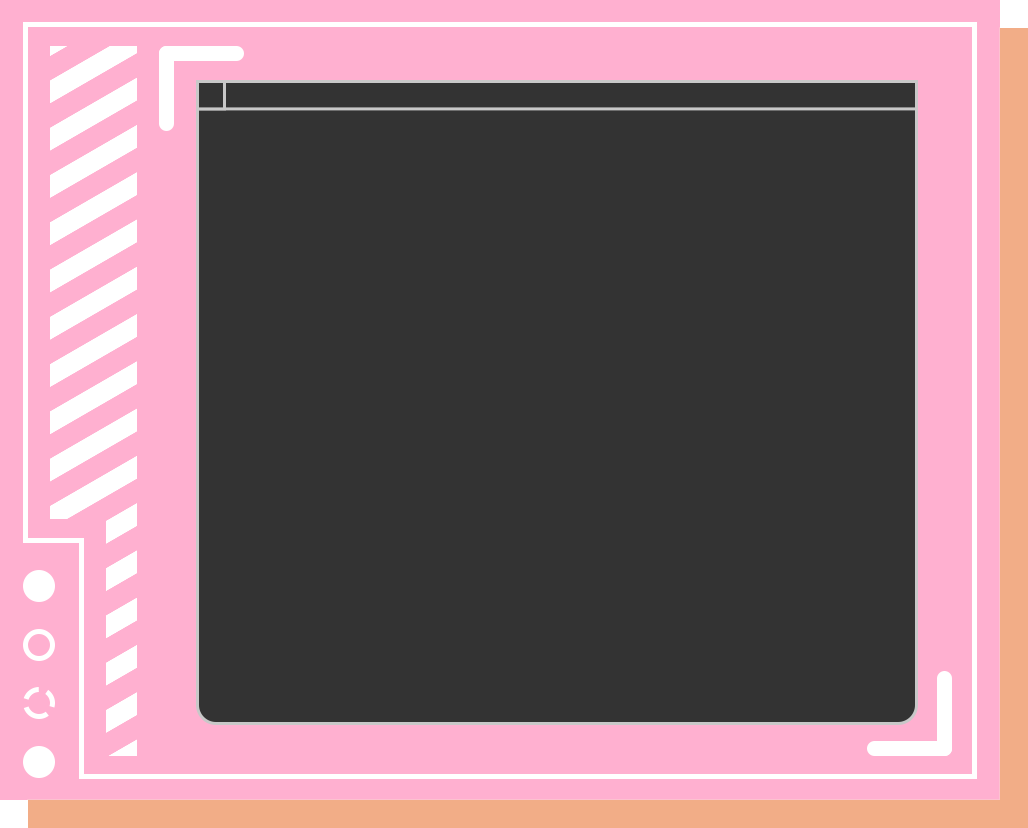
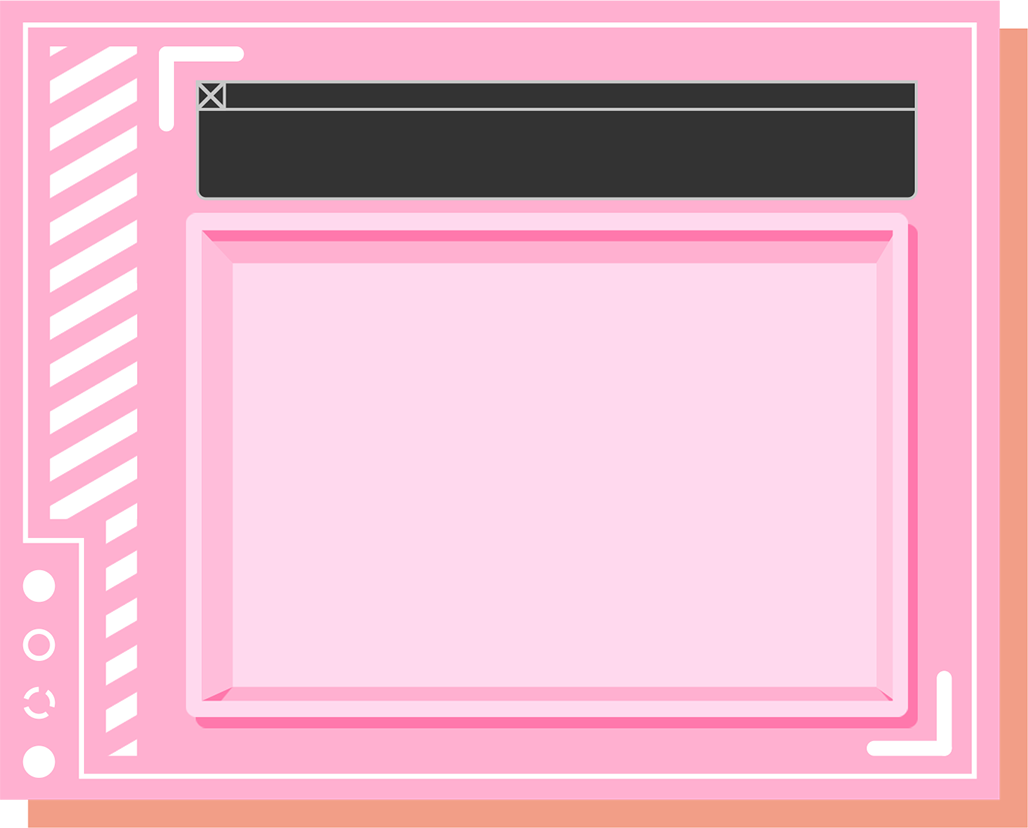
feature: 编写人员信息卡片 调整背景移动框的位置

diff --git a/src/views/Lottery.vue b/src/views/Lottery.vue
@@ -8,35 +8,64 @@
       </div>
     </lottery-background>
 
+    <!-- 全局居中的主题框 -->
     <div class="lottery-main">
+      <!-- 中心框上方的参与指令 -->
       <span class="lottery-main-command-display"
         ><b>参与指令</b>: {{ config.attendKeyword }}</span
       >
+
+      <!-- 中心框和其内部 -->
       <lottery-box class="lottery-main-lottery">
-        <!-- 登录成功后的页面 -->
-        <div v-if="isLogin">
-          <p>欢迎使用桃抽奖</p>
-        </div>
+        <!-- 顶部的消息框 黑色部分 -->
+        <template #message>
+          <div class="lottery-main-message">
+            <p>sss</p>
+            <p>sss</p>
+            <p>sss</p>
+          </div>
+        </template>
 
-        <!-- 登录页面 -->
-        <div v-else>
-          <el-input
-            type="primary"
-            v-model="login.username"
-            placeholder="用户名"
-          ></el-input>
-          <el-input
-            type="primary"
-            v-model="login.password"
-            placeholder="密码"
-          ></el-input>
+        <!-- 底部的粉色框 显示人员信息 -->
+        <template #default>
+          <!-- 登录成功后的页面 -->
+          <div v-if="isLogin">
+            <ul class="lottery-main-users">
+              <user-item></user-item>
+              <user-item></user-item>
+              <user-item></user-item>
+              <user-item></user-item>
+              <user-item></user-item>
+              <user-item></user-item>
+              <user-item></user-item>
+              <user-item></user-item>
+            </ul>
+          </div>
 
-          <el-button type="primary" @click="handleLogin" :loading="loginLoading"
-            >登录</el-button
-          >
-        </div>
+          <!-- 登录页面 -->
+          <div v-else>
+            <el-input
+              type="primary"
+              v-model="login.username"
+              placeholder="用户名"
+            ></el-input>
+            <el-input
+              type="primary"
+              v-model="login.password"
+              placeholder="密码"
+            ></el-input>
+
+            <el-button
+              type="primary"
+              @click="handleLogin"
+              :loading="loginLoading"
+              >登录</el-button
+            >
+          </div>
+        </template>
       </lottery-box>
 
+      <!-- 右侧的两个人框 -->
       <task-box class="lottery-main-done-list"></task-box>
       <task-box class="lottery-main-undone-list"></task-box>
 
@@ -54,6 +83,7 @@ import TaskBox from '@/components/TaskBox'
 import ConfigBox from '@/components/ConfigBox'
 import LotteryBox from '@/components/LotteryBox'
 import ConfigControl from '@/components/ConfigControl'
+import UserItem from '@/components/UserItem'
 import * as api from '@/api'
 import { mapMutations } from 'vuex'
 
@@ -64,11 +94,12 @@ export default {
     TaskBox,
     ConfigBox,
     LotteryBox,
-    ConfigControl
+    ConfigControl,
+    UserItem
   },
   data() {
     return {
-      isLogin: false,
+      isLogin: true,
       loginLoading: false,
       config: {
         lotteryPattern: 1,
@@ -158,14 +189,29 @@ export default {
   position: absolute;
   z-index: 103;
   left: calc(50vw - 781px);
-  top: calc(50vh - 305px);
+  top: calc(50vh - 485px);
 }
 .lottery-main-command-display {
   position: absolute;
   z-index: 101;
-  left: calc((100vw - 1028px) / 2);
+  left: calc((100vw - 1028px) / 2 + 80px);
   top: calc((100vh - 828px) / 2 - 50px);
-  font-family: 'zhscnmt';
+  font-family: 'zhscnmt', 'Helvetica Neue', Helvetica, 'PingFang SC',
+    'Hiragino Sans GB', 'Microsoft YaHei', '微软雅黑', Arial, sans-serif;
   font-size: 40px;
+}
+
+.lottery-main-message {
+  font-family: 'Helvetica Neue', Helvetica, 'PingFang SC', 'Hiragino Sans GB',
+    'Microsoft YaHei', '微软雅黑', Arial, sans-serif;
+  padding: 8px;
+}
+
+.lottery-main-users {
+  height: 400px;
+  overflow-y: auto;
+  display: grid;
+  grid-template-columns: 1fr 1fr;
+  row-gap: 15px;
 }
 </style>

diff --git a/src/components/UserItem.vue b/src/components/UserItem.vue
@@ -1,0 +1,136 @@
+<template>
+  <li class="user-item" :class="{ small: isSmall }">
+    <div class="user-item-avatar-box" :class="{ small: isSmall }">
+      <img :src="avatar" alt="头像" class="user-item-avatar" v-if="!isSmall" />
+      <div class="user-item-status"></div>
+    </div>
+
+    <div class="user-item-main-box">
+      <div class="user-item-name-box">
+        <span class="user-item-name">{{ name }}</span>
+        <div class="user-item-name-line" v-if="!isSmall"></div>
+      </div>
+
+      <div class="user-item-tag-box" v-if="!isSmall">
+        <span class="user-item-tag">&gt; {{ tag }}</span>
+      </div>
+    </div>
+  </li>
+</template>
+
+<script>
+import defaultAvatar from '@/assets/default-avatar.png'
+
+export default {
+  name: 'UserItem',
+  props: {
+    avatar: {
+      type: String,
+      default: defaultAvatar
+    },
+    name: {
+      type: String,
+      default: '(这个人没有名字)'
+    },
+    tag: {
+      type: String,
+      default: '广告位招租'
+    },
+    size: {
+      type: String,
+      validator(val) {
+        return val === 'normal' || val === 'small'
+      },
+      default: 'normal'
+    }
+  },
+  computed: {
+    isSmall() {
+      return this.size === 'small'
+    }
+  }
+}
+</script>
+
+<style>
+.user-item {
+  box-sizing: border-box;
+  display: flex;
+  align-items: center;
+  border: 1px dashed #000;
+  width: 300px;
+  margin-bottom: 10px;
+  padding: 8px 12px;
+  box-shadow: 10px 10px 0 #ff9fc6;
+  background-color: #fff;
+}
+.user-item.small {
+  padding: 0;
+}
+.user-item-avatar-box {
+  position: relative;
+  height: 60px;
+  width: 60px;
+}
+.user-item-avatar-box.small {
+  border-right: 1px dashed #000;
+  padding: 5px;
+  height: 16px;
+  width: 16px;
+}
+.user-item-avatar-box.small .user-item-status {
+  position: relative;
+}
+.user-item-avatar {
+  display: block;
+  box-sizing: border-box;
+  height: 60px;
+  width: 60px;
+  border-radius: 50%;
+}
+.user-item-status {
+  position: absolute;
+  right: 0;
+  bottom: 0;
+  width: 16px;
+  height: 16px;
+  border-radius: 50%;
+  background-color: #62ff3d;
+}
+
+.user-item-main-box {
+  margin-left: 15px;
+  display: flex;
+  flex-direction: column;
+}
+.user-item-name-box {
+  position: relative;
+  padding-bottom: 3px;
+  color: #000;
+}
+.user-item-name-line {
+  position: absolute;
+  left: 0;
+  bottom: 0;
+  width: 120px;
+  height: 1px;
+  background-color: #000;
+}
+.user-item-name {
+  font-weight: bold;
+}
+.user-item-tag-box {
+  box-sizing: border-box;
+  display: flex;
+  flex-flow: row nowrap;
+  align-items: center;
+  margin-top: 6px;
+  width: 200px;
+  height: 31px;
+  padding: 10px 12px;
+  border-radius: 12px;
+  background-image: url('~@/assets/name-tag.png');
+  background-size: 100% 100%;
+  background-repeat: no-repeat;
+}
+</style>

diff --git a/src/components/LotteryBox.vue b/src/components/LotteryBox.vue
@@ -1,6 +1,12 @@
 <template>
   <div class="lottery-box">
-    <slot></slot>
+    <div class="lottery-box-message">
+      <slot name="message"></slot>
+    </div>
+
+    <div class="lottery-box-main">
+      <slot></slot>
+    </div>
   </div>
 </template>
 
@@ -15,7 +21,19 @@ export default {
   box-sizing: border-box;
   width: 1028px;
   height: 828px;
-  padding: 115px 125px 115px 205px;
+  padding: 80px 111px 101px 196px;
   background-image: url('~@/assets/lottery-box.png');
+}
+.lottery-box-message {
+  box-sizing: border-box;
+  width: 723px;
+  height: 121px;
+  padding: 33px 3px 3px 3px;
+}
+.lottery-box-main {
+  box-sizing: border-box;
+  width: 723px;
+  height: 504px;
+  padding: 63px 26px 40px 36px; /* 右边框宽度16px可以用来放滚动条 */
 }
 </style>
